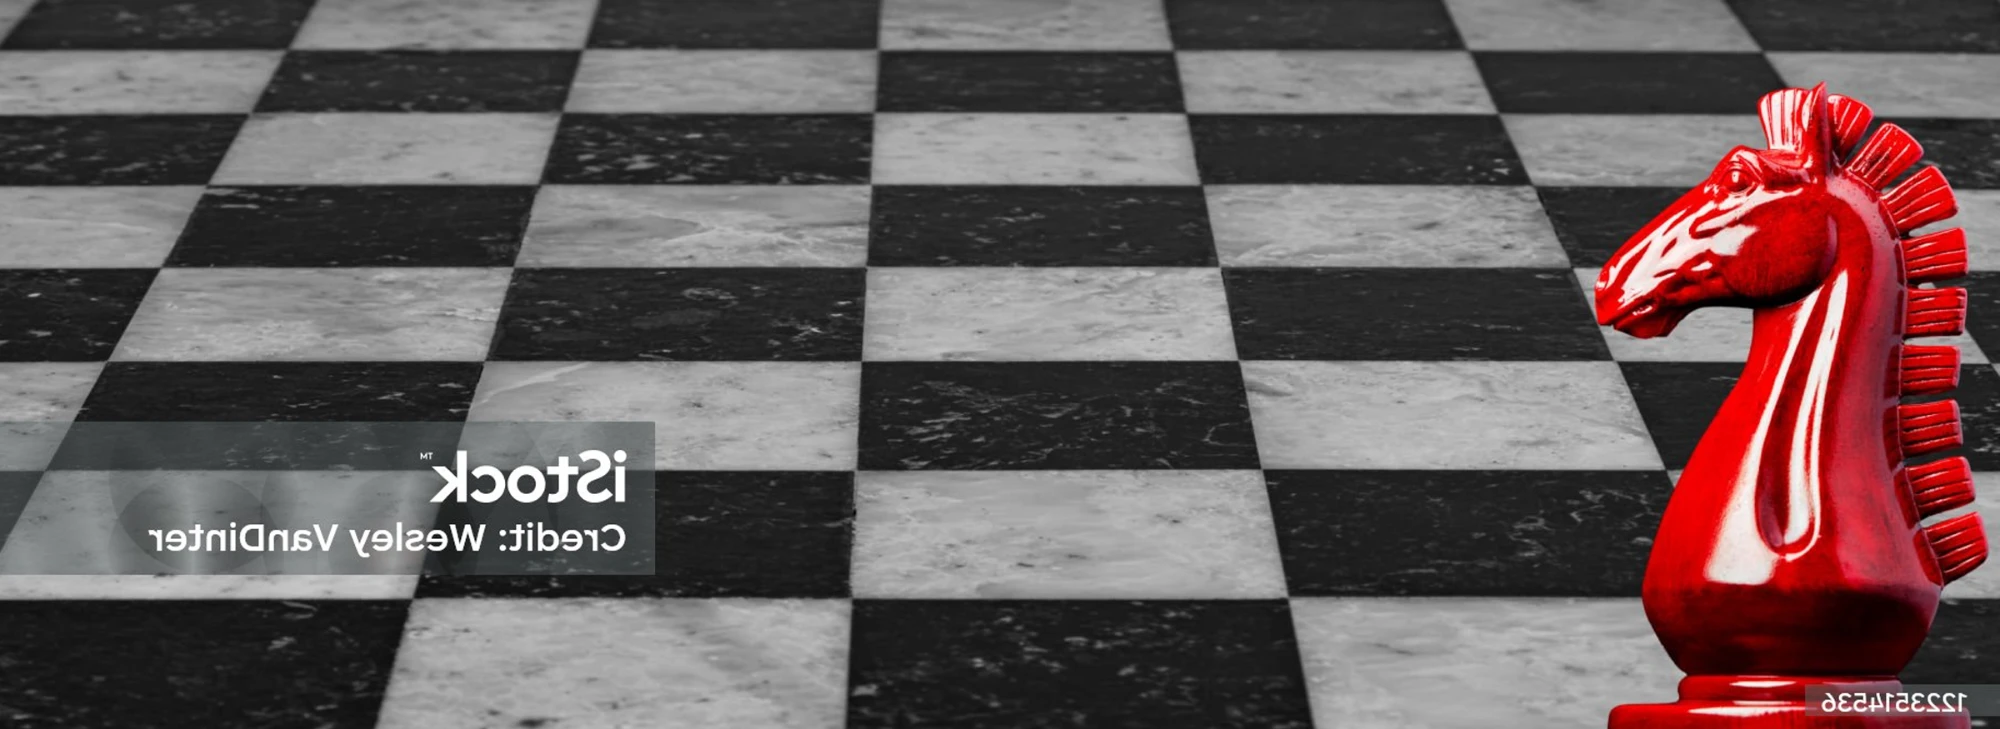
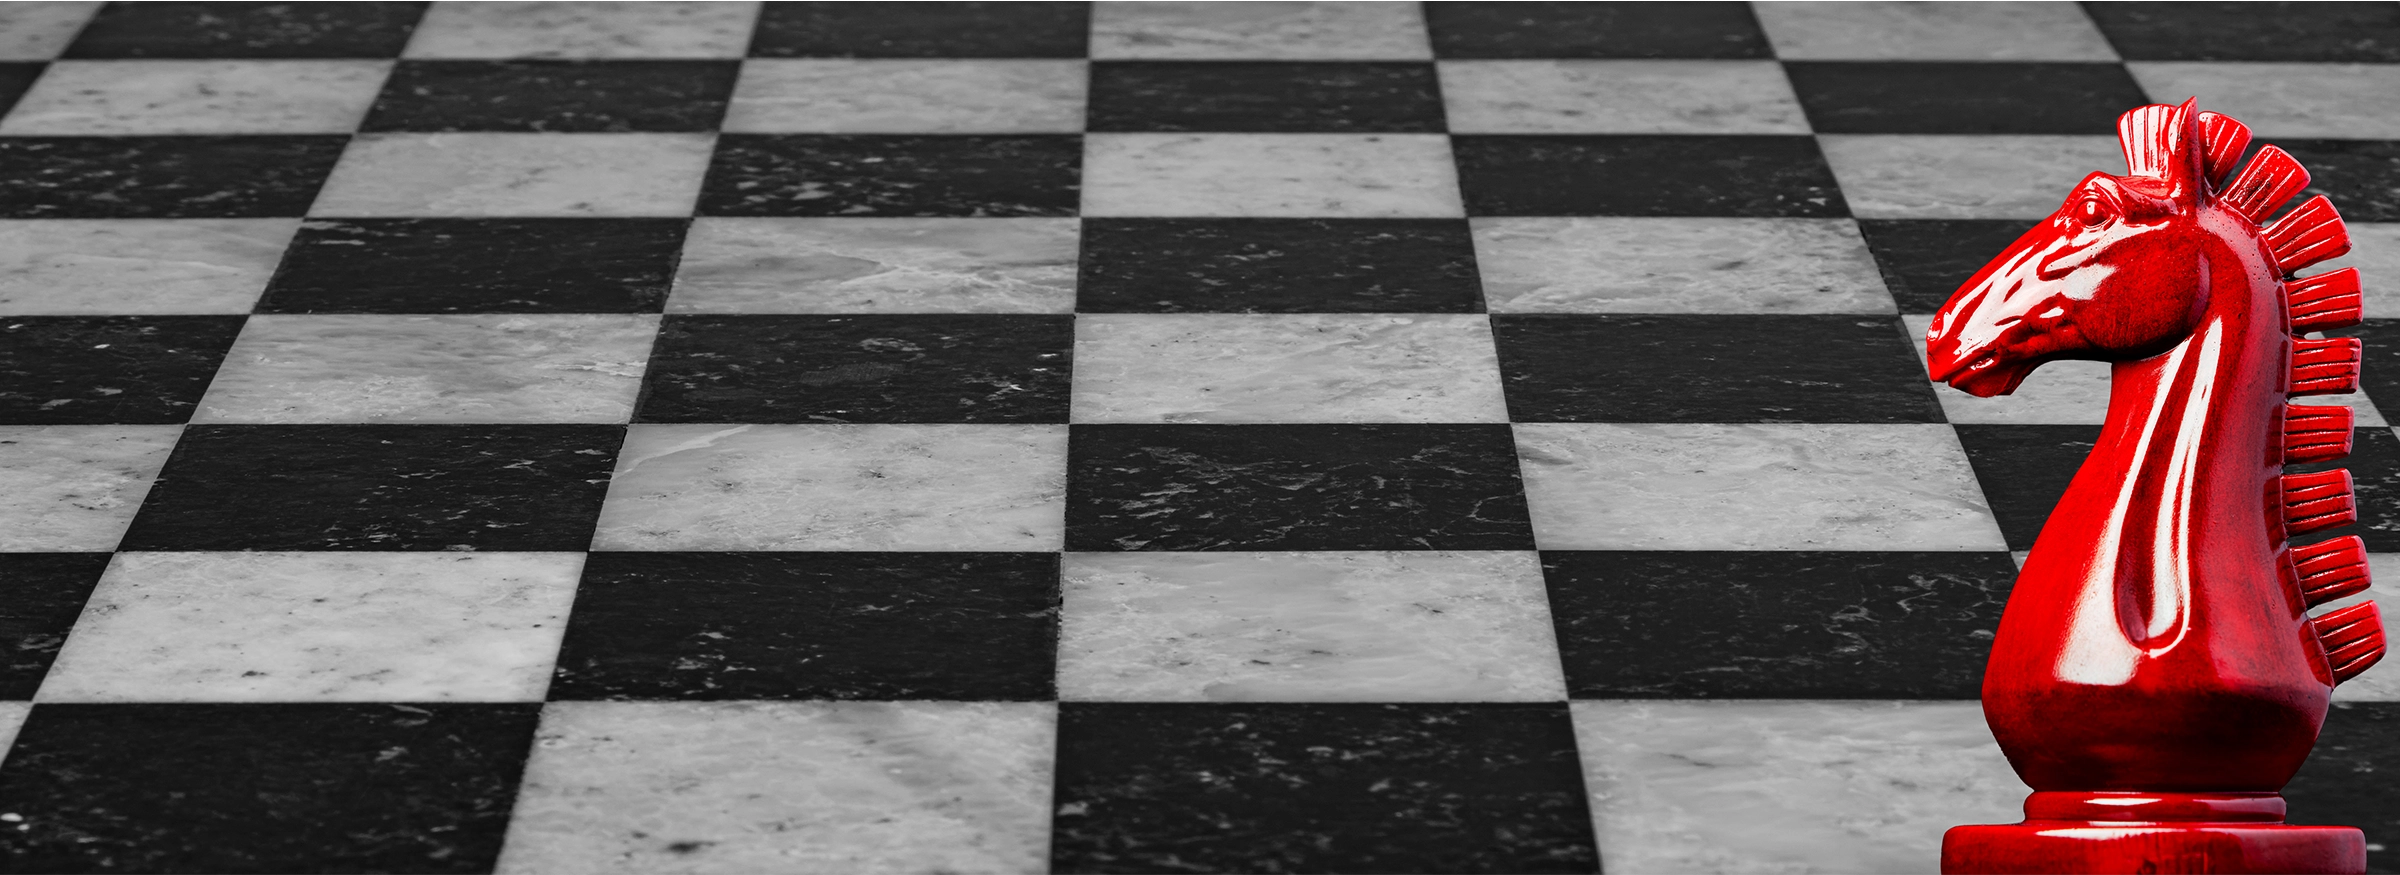
Swap in licensed hero images, finish Services photos, fix copy and process stack
- Replace all 5 page-hero images with watermark-free licensed versions
- Wire up the last Services card image (Multi-Product Call Monetization)
- Right-align and vertically center PageHero backgrounds so subjects stay in frame
- Flatten the Process card stack to a flush overlay instead of a staggered offset
- Remove em dash overuse from titles, meta descriptions, and a few prose lines

diff --git a/src/index.css b/src/index.css
@@ -718,6 +718,29 @@ body::after {
 }
 .service-card:hover .service-link { gap: 10px; color: #fff; }
 
+/* Vertical cards: image banner along the top instead of a small icon badge.
+   Overrides .service-card's own padding (0, since the image bleeds to the
+   card edges) — text lives in .vertical-card-body instead. */
+.vertical-card { padding: 0; display: flex; flex-direction: column; }
+.vertical-card-img { width: 100%; aspect-ratio: 16 / 9; overflow: hidden; flex-shrink: 0; }
+.vertical-card-img img {
+  width: 100%; height: 100%; object-fit: cover; display: block;
+  transition: transform 0.5s ease;
+}
+.vertical-card:hover .vertical-card-img img { transform: scale(1.06); }
+.vertical-card-img-placeholder {
+  width: 100%; height: 100%; display: flex; align-items: center; justify-content: center;
+  background: var(--gradient); font-size: 44px;
+}
+.vertical-card-body { padding: 26px 28px 30px; flex: 1; }
+.vertical-card-body h3 {
+  font-family: 'Lingwood', serif; font-size: 19px; font-weight: 700; letter-spacing: -0.01em;
+  margin-bottom: 12px; color: var(--cream); transition: color 0.3s ease;
+}
+.vertical-card:hover .vertical-card-body h3 { color: #fff; }
+.vertical-card-body p { font-size: 14px; color: var(--text-muted); line-height: 1.75; transition: color 0.3s ease; }
+.vertical-card:hover .vertical-card-body p { color: rgba(255,255,255,0.85); }
+
 /* ─── Work / Tort Cards ─── */
 .work-grid {
   display: grid;
@@ -1215,21 +1238,43 @@ body::after {
 }
 .team-name-link:hover { color: var(--crimson-bright); }
 
-/* ─── Services Full Page ─── */
+/* ─── Services Full Page ───
+   Image panel on the left (desktop), moving above the text on mobile —
+   same dual mobile/desktop image pattern as the homepage Process cards. */
 .services-full-list { display: flex; flex-direction: column; gap: 2px; }
 .service-full-card {
   background: var(--surface); border: 1px solid var(--border);
-  padding: 44px 48px; display: grid; grid-template-columns: 56px 1fr; gap: 32px; align-items: start;
+  display: flex; align-items: stretch;
   transition: background 0.3s; position: relative; overflow: hidden;
 }
-.service-full-card::before {
-  content: ''; position: absolute; left: 0; top: 0; bottom: 0;
-  width: 3px; background: var(--gradient); opacity: 0; transition: opacity 0.3s;
-}
 .service-full-card:hover { background: var(--surface-2); }
-.service-full-card:hover::before { opacity: 1; }
-@media (max-width: 600px) { .service-full-card { grid-template-columns: 1fr; padding: 32px 24px; } }
-.service-full-icon { font-size: 32px; padding-top: 4px; }
+
+/* Desktop image panel — left side */
+.service-full-img-desktop { position: relative; width: 38%; flex-shrink: 0; overflow: hidden; }
+.service-full-img-desktop img {
+  width: 100%; height: 100%; object-fit: cover; object-position: center; display: block;
+  transition: transform 0.7s cubic-bezier(0.22, 1, 0.36, 1);
+}
+.service-full-card:hover .service-full-img-desktop img { transform: scale(1.06); }
+/* Fade right edge (nearest the text) into card bg. Wider + a flat opaque
+   band right at the seam (not just a straight linear fade from 0%) so a
+   photo with strong color near that edge still blends cleanly instead of
+   showing a muddy half-transparent mix of card bg + photo color. */
+.service-full-img-fade {
+  position: absolute; inset: 0;
+  background: linear-gradient(to left, var(--surface) 0%, var(--surface) 6%, transparent 58%);
+  pointer-events: none;
+}
+.service-full-img-placeholder {
+  width: 100%; height: 100%; min-height: 220px;
+  display: flex; align-items: center; justify-content: center;
+  background: var(--gradient); font-size: 40px;
+}
+
+/* Mobile image — full width above text, hidden on desktop */
+.service-full-img-mobile { display: none; }
+
+.service-full-body { flex: 1; padding: clamp(28px, 4vw, 44px) clamp(24px, 4vw, 48px); display: flex; flex-direction: column; justify-content: center; }
 .service-full-body h2 {
   font-family: 'Lingwood', serif;
   font-size: clamp(20px, 3vw, 26px); font-weight: 700; letter-spacing: -0.02em;
@@ -1241,6 +1286,20 @@ body::after {
   color: var(--crimson-bright); transition: color 0.2s;
 }
 .service-full-link:hover { color: var(--cream); }
+
+@media (max-width: 768px) {
+  .service-full-card { flex-direction: column; }
+  .service-full-img-mobile {
+    display: block; width: 100%; height: 200px; overflow: hidden;
+  }
+  .service-full-img-mobile img {
+    width: 100%; height: 100%; object-fit: cover; object-position: center; display: block;
+    transition: transform 0.7s cubic-bezier(0.22, 1, 0.36, 1);
+  }
+  .service-full-card:hover .service-full-img-mobile img { transform: scale(1.06); }
+  .service-full-img-desktop { display: none; }
+  .service-full-body { padding: 28px 24px; }
+}
 
 /* ─── Included / Catch / Who grids ─── */
 .included-grid, .catch-grid, .who-grid {

diff --git a/src/pages/TeamPage.jsx b/src/pages/TeamPage.jsx
@@ -19,11 +19,11 @@ const team = [
   { name: 'Marc Loreti',       title: 'Chief Sales Officer',                  initials: 'ML', email: 'marc@emailagency.com',    photo: '/images/team/marc-loreti.webp' },
   { name: 'Harry Russell',     title: 'Chief Financial Officer',              initials: 'HR', email: 'harry@emailagency.com',   photo: '/images/team/harry-russell.webp' },
   { name: 'Max Ray',           title: 'Chief Growth Officer',                 initials: 'MR', email: 'max@emailagency.com',     photo: '/images/team/max-ray.webp' },
-  { name: 'Mark Muzzini',      title: 'Business Development — Insurance',     initials: 'MM', email: 'markm@emailagency.com',   photo: '/images/team/mark-muzzini.webp' },
+  { name: 'Mark Muzzini',      title: 'Business Development, Insurance',      initials: 'MM', email: 'markm@emailagency.com',   photo: '/images/team/mark-muzzini.webp' },
   { name: 'Dan Robinson',      title: 'VP of Sales',                          initials: 'DR', email: 'dan@emailagency.com',     photo: '/images/team/dan-robinson.webp' },
   { name: 'Shane Bader',       title: 'VP of Operations',                     initials: 'SB', email: 'shane@emailagency.com',   photo: '/images/team/shane-bader.webp' },
   { name: 'Josh Starks',       title: 'Sr. Business Development Manager',     initials: 'JS', email: 'josh@emailagency.com',    photo: '/images/team/josh-starks.webp' },
-  { name: 'Adam Thayer',       title: 'VP — Media Analytics & Client Services', initials: 'AT', email: 'adam@emailagency.com', photo: '/images/team/adam-thayer.webp' },
+  { name: 'Adam Thayer',       title: 'VP, Media Analytics & Client Services', initials: 'AT', email: 'adam@emailagency.com',  photo: '/images/team/adam-thayer.webp' },
   { name: 'Josh Mathews',      title: 'SVP of TV Marketing',                  initials: 'JM', email: 'joshua@emailagency.com',  photo: '/images/team/josh-mathews.webp' },
   { name: 'Jared Cassavechia', title: 'SVP, Media',                           initials: 'JC', email: 'jared@emailagency.com',   photo: '/images/team/jared-cassavechia.webp' },
   { name: 'Brian Remavich',    title: 'Chief Marketing Officer',              initials: 'BR', email: 'brian@emailagency.com',   photo: '/images/team/brian-remavich.webp' },
@@ -44,7 +44,7 @@ const capabilities = [
 export default function TeamPage() {
   usePageMeta(
     'Our Team | InsuranceLogic',
-    'Meet the InsuranceLogic team — the leadership and business development group behind our full-service marketing platform for independent agents.'
+    'Meet the InsuranceLogic team: the leadership and business development group behind our full-service marketing platform for independent agents.'
   )
   const pageRef = useRef(null)
 
@@ -67,7 +67,7 @@ export default function TeamPage() {
       <PageHero bgImage="/images/hero/team.webp">
         <h1 className="page-title">Our Team</h1>
         <h2 className="page-hero-h2">The People Behind <span className="gradient-text">InsuranceLogic</span></h2>
-        <p className="page-lead">InsuranceLogic runs on the same leadership and infrastructure team behind LawLogic and Email Agency Inc. — over 20 years of performance marketing experience, now focused on independent insurance agents.</p>
+        <p className="page-lead">InsuranceLogic runs on the same leadership and infrastructure team behind LawLogic and Email Agency Inc., with over 20 years of performance marketing experience now focused on independent insurance agents.</p>
       </PageHero>
 
       <section className="section">
@@ -82,7 +82,7 @@ export default function TeamPage() {
               <p style={{ color: 'var(--text-soft)', lineHeight: 1.8, fontSize: 17, marginBottom: 20 }}>
                 InsuranceLogic is a full-service marketing platform for independent
                 agents and the agencies that serve them. We're not a startup guessing
-                at lead generation — we're built on infrastructure that has run
+                at lead generation. We're built on infrastructure that has run
                 LawLogic's claimant pipeline for years, adapted for insurance.
               </p>
               <p style={{ color: 'var(--text-soft)', lineHeight: 1.8, fontSize: 17, marginBottom: 32 }}>

diff --git a/src/pages/ServicesPage.jsx b/src/pages/ServicesPage.jsx
@@ -13,21 +13,25 @@ const services = [
     icon: '🧭',
     title: 'Full-Service Marketing Platform',
     desc: 'Budget in, leads and calls out. We handle paid acquisition, compliant intake, and delivery end to end, so your team spends time selling, not managing vendors.',
+    image: '/images/services/full-service.webp',
   },
   {
     icon: '🔀',
     title: 'Real-Time Routing Technology',
     desc: 'The same infrastructure that powers LawLogic, now consolidated into one platform. Leads and live calls route to the right agent the moment they qualify, across every vertical you write.',
+    image: '/images/services/routing-tech.webp',
   },
   {
     icon: '🎚',
     title: 'Flexible Criteria & Lead Volume',
     desc: 'Adjust qualifying criteria and volume as your book of business changes. Campaigns are built around what you need this month, not a fixed contract you\'re locked into.',
+    image: '/images/services/flexable-criteria.webp',
   },
   {
     icon: '☎',
     title: 'Multi-Product Call Monetization',
     desc: 'A single call can qualify for two or three product lines at once, whether that\'s Final Expense and Medicare, or Auto and GAP. We route and monetize the full value of every conversation.',
+    image: '/images/services/call-monetization.webp',
   },
 ]
 
@@ -61,7 +65,17 @@ export default function ServicesPage() {
           <div className="services-full-list">
             {services.map((s) => (
               <div className="service-full-card" key={s.title}>
-                <div className="service-full-icon">{s.icon}</div>
+                <div className="service-full-img-mobile">
+                  {s.image
+                    ? <img src={s.image} alt={s.title} loading="lazy" />
+                    : <div className="service-full-img-placeholder">{s.icon}</div>}
+                </div>
+                <div className="service-full-img-desktop">
+                  {s.image
+                    ? <img src={s.image} alt={s.title} loading="lazy" />
+                    : <div className="service-full-img-placeholder">{s.icon}</div>}
+                  <div className="service-full-img-fade" aria-hidden="true" />
+                </div>
                 <div className="service-full-body">
                   <h2>{s.title}</h2>
                   <p>{s.desc}</p>

diff --git a/index.html b/index.html
@@ -4,7 +4,7 @@
     <meta charset="UTF-8" />
     <link rel="icon" type="image/svg+xml" href="/favicon.svg" />
     <meta name="viewport" content="width=device-width, initial-scale=1.0" />
-    <title>InsuranceLogic — Full-Service Marketing for Independent Agents</title>
+    <title>InsuranceLogic: Full-Service Marketing for Independent Agents</title>
     <meta name="description" content="InsuranceLogic turns marketing budget into compliant, verified leads and calls across Final Expense, Medicare, Life, Annuity, Auto, Home, and more. Powered by Email Agency." />
 
     <meta name="robots" content="noindex, nofollow" />
@@ -16,11 +16,11 @@
     <meta property="og:type"        content="website" />
     <meta property="og:site_name"   content="InsuranceLogic" />
     <meta property="og:url"         content="https://insurancelogic.com/" />
-    <meta property="og:title"       content="InsuranceLogic — Full-Service Marketing for Independent Agents" />
+    <meta property="og:title"       content="InsuranceLogic: Full-Service Marketing for Independent Agents" />
     <meta property="og:description" content="InsuranceLogic turns marketing budget into compliant, verified leads and calls across Final Expense, Medicare, Life, Annuity, Auto, Home, and more." />
 
     <meta name="twitter:card"        content="summary_large_image" />
-    <meta name="twitter:title"       content="InsuranceLogic — Full-Service Marketing for Independent Agents" />
+    <meta name="twitter:title"       content="InsuranceLogic: Full-Service Marketing for Independent Agents" />
     <meta name="twitter:description" content="InsuranceLogic turns marketing budget into compliant, verified leads and calls across Final Expense, Medicare, Life, Annuity, Auto, Home, and more." />
   </head>
   <body>

diff --git a/src/pages/VerticalsPage.jsx b/src/pages/VerticalsPage.jsx
@@ -12,7 +12,7 @@ gsap.registerPlugin(ScrollTrigger)
 export default function VerticalsPage() {
   usePageMeta(
     'Insurance Verticals | InsuranceLogic',
-    'InsuranceLogic covers Final Expense, Medicare, Life, Annuity, Home, Mortgage Protection, Auto, GAP, Umbrella, and more — all under one marketing platform.'
+    'InsuranceLogic covers Final Expense, Medicare, Life, Annuity, Home, Mortgage Protection, Auto, GAP, Umbrella, and more, all under one marketing platform.'
   )
   const pageRef = useRef(null)
 
@@ -49,12 +49,18 @@ export default function VerticalsPage() {
           <div className="services-grid">
             {VERTICALS.map((v) => (
               <div className="service-card vertical-card" key={v.slug}>
-                <div className="service-icon" style={{ fontSize: 26 }}>{v.icon}</div>
-                <h3>
-                  {v.name}
-                  {v.comingSoon && <span className="vertical-badge">Launching Soon</span>}
-                </h3>
-                <p>{v.desc}</p>
+                <div className="vertical-card-img">
+                  {v.image
+                    ? <img src={v.image} alt={v.name} loading="lazy" />
+                    : <div className="vertical-card-img-placeholder">{v.icon}</div>}
+                </div>
+                <div className="vertical-card-body">
+                  <h3>
+                    {v.name}
+                    {v.comingSoon && <span className="vertical-badge">Launching Soon</span>}
+                  </h3>
+                  <p>{v.desc}</p>
+                </div>
               </div>
             ))}
           </div>

diff --git a/src/components/Process.jsx b/src/components/Process.jsx
@@ -39,8 +39,9 @@ const steps = [
   },
 ]
 
-// Sticky top offsets — navbar ~68px, stack cards 18px apart
-const TOPS = [86, 104, 122, 140]
+// Sticky top offset — same for every card so each one lands flush on top
+// of the last as it scrolls in, instead of cascading down in a staircase.
+const STICKY_TOP = 86
 
 export default function Process() {
   const cardInnerRefs = useRef([])
@@ -53,18 +54,16 @@ export default function Process() {
         const wrap = inner.parentElement
         const rect = wrap.getBoundingClientRect()
         const idx = Number(wrap.dataset.idx)
-        const stickyTop = TOPS[idx]
 
-        const buried = Math.max(0, stickyTop - rect.top)
+        const buried = Math.max(0, STICKY_TOP - rect.top)
         const cardsAbove = cards.length - 1 - idx
         const maxBury = cardsAbove * 18
         const t = maxBury > 0 ? Math.min(buried / maxBury, 1) : 0
 
         const minScale = Math.max(0.88, 1 - 0.04 * cardsAbove)
         const scale = 1 - t * (1 - minScale)
-        const ty = t * cardsAbove * 6
 
-        inner.style.transform = `scale(${scale.toFixed(4)}) translateY(${(-ty).toFixed(2)}px)`
+        inner.style.transform = `scale(${scale.toFixed(4)})`
       })
     }
 
@@ -98,7 +97,7 @@ export default function Process() {
               key={step.num}
               className="process-card-wrap"
               data-idx={i}
-              style={{ top: TOPS[i], zIndex: 10 + i }}
+              style={{ top: STICKY_TOP, zIndex: 10 + i }}
             >
               <div
                 ref={(el) => { cardInnerRefs.current[i] = el }}

diff --git a/src/pages/HomePage.jsx b/src/pages/HomePage.jsx
@@ -67,8 +67,8 @@ function CompanyIntro() {
 
 export default function HomePage() {
   usePageMeta(
-    'InsuranceLogic — Full-Service Marketing for Independent Agents',
-    'InsuranceLogic turns marketing budget into compliant, verified leads and calls across every insurance vertical we cover — real-time routing, flexible criteria, and multi-product monetization on one platform.'
+    'InsuranceLogic: Full-Service Marketing for Independent Agents',
+    'InsuranceLogic turns marketing budget into compliant, verified leads and calls across every insurance vertical we cover, with real-time routing, flexible criteria, and multi-product monetization on one platform.'
   )
   return (
     <>

diff --git a/src/components/PageHero.jsx b/src/components/PageHero.jsx
@@ -17,9 +17,9 @@ export default function PageHero({ label, title, subtitle, children, minHeight, 
     if (!bgImage || window.matchMedia('(prefers-reduced-motion: reduce)').matches) return
     const ctx = gsap.context(() => {
       gsap.fromTo(ref.current,
-        { backgroundPositionY: '20%' },
+        { backgroundPositionY: '35%' },
         {
-          backgroundPositionY: '80%',
+          backgroundPositionY: '65%',
           ease: 'none',
           scrollTrigger: {
             trigger: ref.current,
